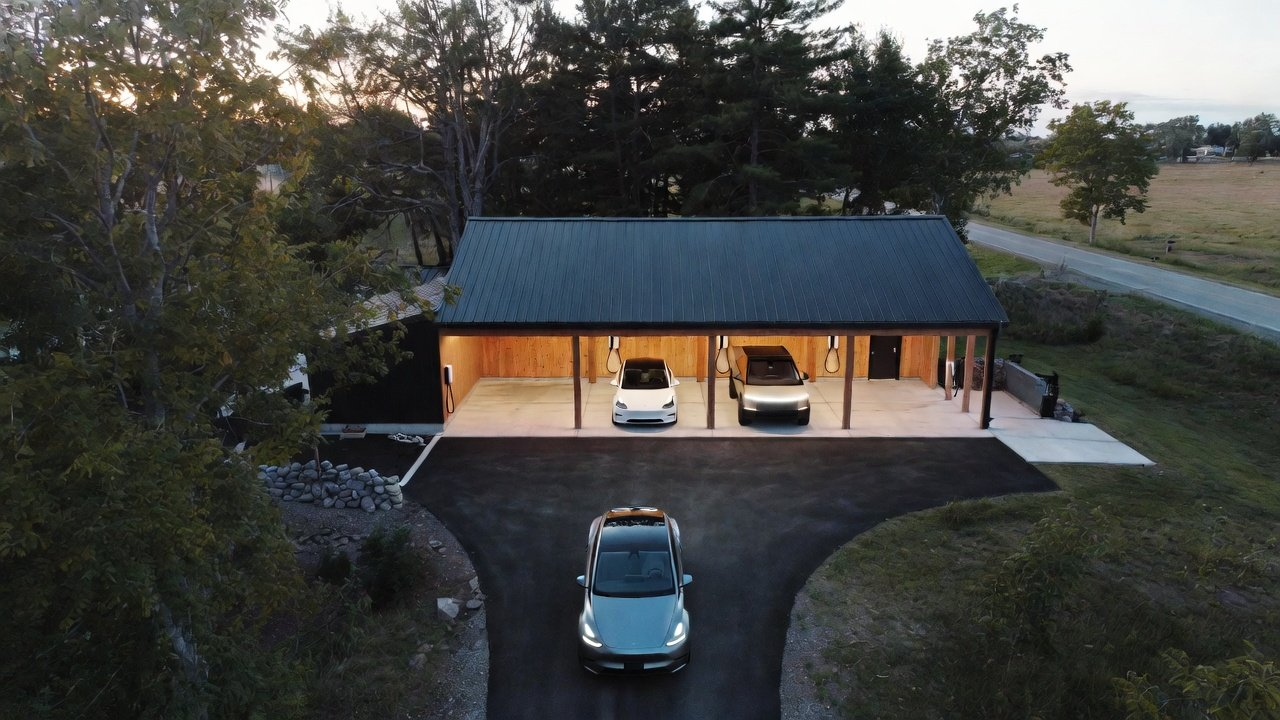
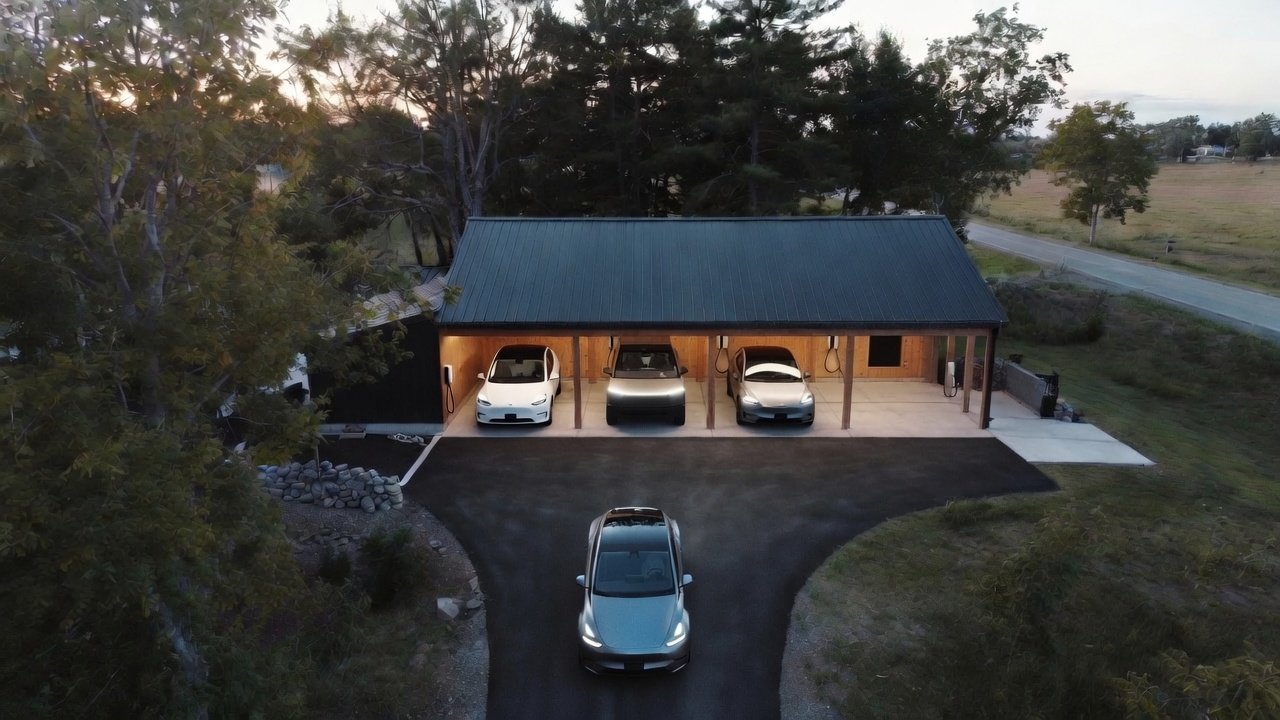
Add files via upload

diff --git a/sfv3.html b/sfv3.html
@@ -134,6 +134,8 @@ audio{width:100%}
   <button class="tab-btn" data-tab="interiors">Interior Rooms</button>
   <button class="tab-btn" data-tab="wellness">Barn &amp; Wellness</button>
   <button class="tab-btn" data-tab="pool">Pool &amp; Outdoor</button>
+  <button class="tab-btn" data-tab="pergola">Al Fresco Pergola</button>
+  <button class="tab-btn" data-tab="garden">Kitchen Garden</button>
   <button class="tab-btn" data-tab="robotaxi">Robotaxi Depot</button>
   <button class="tab-btn" data-tab="budget">Budget &amp; Materials</button>
   <button class="tab-btn" data-tab="about">About</button>
@@ -467,6 +469,14 @@ audio{width:100%}
         <rect x="180" y="462" width="108" height="44" rx="3" fill="#D4B896" fill-opacity="0.3" stroke="#B8963E" stroke-width="0.5" stroke-dasharray="3 2"/>
         <text x="234" y="480" text-anchor="middle" class="ss" fill="#B8963E">fire pit terrace</text>
         <text x="234" y="492" text-anchor="middle" class="ss" fill="#B8963E">+ hot tub</text>
+        <!-- Al Fresco Pergola — east of mudroom off kitchen garden -->
+        <rect x="618" y="340" width="100" height="80" rx="4" fill="#EAF3DE" stroke="#3B6D11" stroke-width="1" stroke-dasharray="5 3"/>
+        <text x="668" y="372" text-anchor="middle" class="sl" fill="#27500A">Pergola</text>
+        <text x="668" y="384" text-anchor="middle" class="ss" fill="#3B6D11">al fresco dining</text>
+        <text x="668" y="395" text-anchor="middle" class="ss" fill="#3B6D11">vine canopy · fans</text>
+        <!-- Path from mudroom to pergola -->
+        <path d="M613 370 Q600 365 580 362" fill="none" stroke="#3B6D11" stroke-width="1.5" stroke-dasharray="4 3" stroke-linecap="round"/>
+        <text x="594" y="357" text-anchor="middle" class="ss" fill="#3B6D11">kitchen path</text>
 
         <!-- Pool south of living wing east side -->
         <rect x="296" y="462" width="118" height="68" rx="4" fill="#B5D4F4" stroke="#185FA5" stroke-width="0.8"/>
@@ -609,6 +619,16 @@ audio{width:100%}
       <li>Starlink on barn roof — automatic failover if fiber down</li>
     </ul>
   </div>
+
+<div style="margin:0 0 0;padding:16px 32px 0">
+  <div style="border:0.5px solid rgba(184,150,62,0.25);border-radius:8px;overflow:hidden;max-width:600px">
+    <div style="display:flex;align-items:center;justify-content:space-between;padding:10px 14px;background:rgba(184,150,62,0.08);border-bottom:0.5px solid rgba(184,150,62,0.2)">
+      <span style="font-size:10px;letter-spacing:0.14em;text-transform:uppercase;color:var(--gold-light)">Barn &amp; Wellness — Est. Cost</span>
+      <span style="font-size:14px;font-weight:500;color:var(--gold-light)">~$610,000</span>
+    </div>
+    <table style="width:100%;border-collapse:collapse"><tr><td style="padding:5px 10px;font-size:11px;color:rgba(245,242,236,0.55);border-bottom:0.5px solid var(--border)">Structure &amp; shell renovation</td><td style="padding:5px 10px;font-size:11px;color:var(--gold-light);text-align:right;border-bottom:0.5px solid var(--border);white-space:nowrap">$320,000</td></tr><tr><td style="padding:5px 10px;font-size:11px;color:rgba(245,242,236,0.55);border-bottom:0.5px solid var(--border)">Gym · sauna · cold plunge · zen terrace</td><td style="padding:5px 10px;font-size:11px;color:var(--gold-light);text-align:right;border-bottom:0.5px solid var(--border);white-space:nowrap">$193,000</td></tr><tr><td style="padding:5px 10px;font-size:11px;color:rgba(245,242,236,0.55);border-bottom:0.5px solid var(--border)">Change room + shower</td><td style="padding:5px 10px;font-size:11px;color:var(--gold-light);text-align:right;border-bottom:0.5px solid var(--border);white-space:nowrap">$55,000</td></tr><tr><td style="padding:5px 10px;font-size:11px;color:rgba(245,242,236,0.55);border-bottom:0.5px solid var(--border)">Workshop &amp; equipment storage</td><td style="padding:5px 10px;font-size:11px;color:var(--gold-light);text-align:right;border-bottom:0.5px solid var(--border);white-space:nowrap">$42,000</td></tr></table>
+  </div>
+</div>
 </div>
 
 <!-- 10. POOL & OUTDOOR -->
@@ -644,6 +664,150 @@ audio{width:100%}
       <li><strong style="color:var(--gold-light)">Wildflower Meadow</strong> — beyond pool zone, native Ontario wildflowers, stone walls, hedgerows, open farmland</li>
     </ul>
   </div>
+</div>
+
+<!-- AL FRESCO PERGOLA -->
+<div class="panel" id="panel-pergola">
+<div class="carousel" id="carousel-pergola">
+<div class="car-stage">
+  <img src="https://donazz1.github.io/Sovereign-Feilds/pergola_exterior.png" alt="Al Fresco Pergola" onload="this.classList.add('loaded')">
+  <button class="car-arrow car-arrow-left" onclick="carMove('pergola',-1)">&#8249;</button>
+  <button class="car-arrow car-arrow-right" onclick="carMove('pergola',1)">&#8250;</button>
+  <div class="car-stage-caption"><h3>Al Fresco Dining Pergola</h3><p>Rustic harvest table · Bistro seating · Living vine canopy · Farmland views · Golden hour</p></div>
+</div>
+<div style="display:none">
+  <div class="car-slide active" data-title="Al Fresco Dining Pergola" data-sub="Rustic harvest table · Bistro seating · Living vine canopy · Farmland views"><img src="https://donazz1.github.io/Sovereign-Feilds/pergola_exterior.png"></div>
+  <div class="car-slide" data-title="Inside the Pergola" data-sub="Douglas fir and black steel · Infrared heaters · Ceiling fans · Pendant lighting · Open farmland horizon"><img src="https://donazz1.github.io/Sovereign-Feilds/pergola_interior.png"></div>
+</div>
+<div class="car-thumbs">
+  <div class="car-thumb active-thumb" onclick="carGo('pergola',0)"><img src="https://donazz1.github.io/Sovereign-Feilds/pergola_exterior.png" onload="this.classList.add('loaded')"><div class="car-thumb-lbl">Pergola · Bistro View</div></div>
+  <div class="car-thumb" onclick="carGo('pergola',1)"><img src="https://donazz1.github.io/Sovereign-Feilds/pergola_interior.png" onload="this.classList.add('loaded')"><div class="car-thumb-lbl">Interior · Long View</div></div>
+</div>
+</div>
+  <div class="spec-strip">
+    <div class="spec-item"><div class="spec-label">Structure</div><div class="spec-value gold">Douglas Fir + Black Steel</div></div>
+    <div class="spec-item"><div class="spec-label">Canopy</div><div class="spec-value">Living Vine Trellis</div></div>
+    <div class="spec-item"><div class="spec-label">Floor</div><div class="spec-value">Flagstone</div></div>
+    <div class="spec-item"><div class="spec-label">Heating</div><div class="spec-value">Infrared Ceiling Mount</div></div>
+    <div class="spec-item"><div class="spec-label">Location</div><div class="spec-value">Kitchen Garden · East of Mudroom</div></div>
+  </div>
+  <div class="content-block">
+    <h2>The Pergola</h2><div class="gold-rule"></div>
+    <p>A Douglas fir and black steel pergola with an open lattice trellis roof positioned just off the kitchen garden, east of the mudroom. Completely open on all four sides — the farmland view is visible from every seat. A short flagstone path through the herb garden connects it directly to the kitchen. In early spring the open trellis lets full sun through. By June the vines have filled in creating a dense natural living canopy. By October the leaves drop, opening it back up to sky.</p>
+    <ul class="rule-list" style="margin-top:20px">
+      <li><strong style="color:var(--gold-light)">Structure</strong> — Douglas fir timber posts and beams · black steel lattice trellis roof · no walls, completely open on all four sides · farmland view from every seat</li>
+      <li><strong style="color:var(--gold-light)">Living Canopy</strong> — hops or Virginia creeper trained through trellis · bare in spring (open sky dining) · full canopy June–September · brilliant red fall colour · dormant and open through winter</li>
+      <li><strong style="color:var(--gold-light)">Lighting</strong> — Lutron-controlled outdoor zone · warm pendant lights hanging from trellis beams · string lights woven through vines · dimmable scenes via Control4 (dinner mode, ambient mode)</li>
+      <li><strong style="color:var(--gold-light)">Ceiling Fans</strong> — 4× large black ceiling-mount fans on trellis beams · dual purpose: summer air circulation and evening insect deterrent · Control4 "insect mode" runs all fans at medium speed from app</li>
+      <li><strong style="color:var(--gold-light)">Infrared Heaters</strong> — 4–6× ceiling-mount infrared units bolted to trellis beams · heat occupants directly not the air, so wind doesn't steal warmth · extends season into October and from April · Control4 zone on/off from app</li>
+      <li><strong style="color:var(--gold-light)">Seating</strong> — one or two long harvest tables · estate dining format · not café-style small tables · seats 10–16 comfortably</li>
+      <li><strong style="color:var(--gold-light)">Floor</strong> — flagstone matching house and veranda · low fieldstone border walls optional on north and east sides for wind break without enclosing the space</li>
+      <li><strong style="color:var(--gold-light)">Kitchen Connection</strong> — flagstone path through herb garden to mudroom · 20–30 steps from kitchen to table · outdoor kitchen nearby</li>
+    </ul>
+  </div>
+  <div class="content-block" style="padding-top:0">
+    <h2>Smart Home Integration</h2><div class="gold-rule"></div>
+    <ul class="rule-list">
+      <li>Lutron outdoor lighting zone — pergola pendant and string lights · dimmable · scene-programmable</li>
+      <li>Control4 pergola zone — fans, infrared heaters, and lighting all on single zone · app controllable</li>
+      <li>"Dinner scene" — lights at 60%, heaters on, fans low · one tap from phone</li>
+      <li>"Insect mode" — all fans at medium speed · triggered from Control4 app or voice</li>
+      <li>"Evening wind-down" — lights at 20%, heaters on full, fans off</li>
+      <li>Irrigation drip lines extended from kitchen garden to vine planters at each pergola post</li>
+    </ul>
+  </div>
+
+<div style="margin:0 0 0;padding:16px 32px 32px">
+  <div style="border:0.5px solid rgba(184,150,62,0.25);border-radius:8px;overflow:hidden;max-width:600px">
+    <div style="display:flex;align-items:center;justify-content:space-between;padding:10px 14px;background:rgba(184,150,62,0.08);border-bottom:0.5px solid rgba(184,150,62,0.2)">
+      <span style="font-size:10px;letter-spacing:0.14em;text-transform:uppercase;color:var(--gold-light)">Al Fresco Pergola — Est. Cost</span>
+      <span style="font-size:14px;font-weight:500;color:var(--gold-light)">~$81,500</span>
+    </div>
+    <table style="width:100%;border-collapse:collapse"><tr><td style="padding:5px 10px;font-size:11px;color:rgba(245,242,236,0.55);border-bottom:0.5px solid var(--border)">Structure · Douglas fir timber · black steel lattice trellis</td><td style="padding:5px 10px;font-size:11px;color:var(--gold-light);text-align:right;border-bottom:0.5px solid var(--border);white-space:nowrap">$28,000</td></tr><tr><td style="padding:5px 10px;font-size:11px;color:rgba(245,242,236,0.55);border-bottom:0.5px solid var(--border)">Flagstone floor · low fieldstone border walls</td><td style="padding:5px 10px;font-size:11px;color:var(--gold-light);text-align:right;border-bottom:0.5px solid var(--border);white-space:nowrap">$18,000</td></tr><tr><td style="padding:5px 10px;font-size:11px;color:rgba(245,242,236,0.55);border-bottom:0.5px solid var(--border)">4× infrared ceiling heaters · Control4 zone</td><td style="padding:5px 10px;font-size:11px;color:var(--gold-light);text-align:right;border-bottom:0.5px solid var(--border);white-space:nowrap">$10,000</td></tr><tr><td style="padding:5px 10px;font-size:11px;color:rgba(245,242,236,0.55);border-bottom:0.5px solid var(--border)">4× black ceiling fans · Control4 controlled</td><td style="padding:5px 10px;font-size:11px;color:var(--gold-light);text-align:right;border-bottom:0.5px solid var(--border);white-space:nowrap">$6,500</td></tr><tr><td style="padding:5px 10px;font-size:11px;color:rgba(245,242,236,0.55);border-bottom:0.5px solid var(--border)">Lighting · Lutron pendants · string lights · dimmable</td><td style="padding:5px 10px;font-size:11px;color:var(--gold-light);text-align:right;border-bottom:0.5px solid var(--border);white-space:nowrap">$8,000</td></tr><tr><td style="padding:5px 10px;font-size:11px;color:rgba(245,242,236,0.55);border-bottom:0.5px solid var(--border)">Vines · rustic harvest table · bistro tables · bench seating</td><td style="padding:5px 10px;font-size:11px;color:var(--gold-light);text-align:right;border-bottom:0.5px solid var(--border);white-space:nowrap">$11,000</td></tr></table>
+  </div>
+</div>
+</div>
+
+<!-- KITCHEN GARDEN & GREENHOUSE -->
+<div class="panel" id="panel-garden">
+  <div class="hero tall">
+    <img src="https://donazz1.github.io/Sovereign-Feilds/kitchen_garden.png" alt="Kitchen garden and greenhouse" onload="this.classList.add('loaded')">
+    <div class="hero-caption"><div class="rule"></div><h2>Kitchen Garden &amp; Greenhouse</h2><p>Heated greenhouse · Waist-height raised beds · Small orchard · Stone path from house · Render coming</p></div>
+  </div>
+  <div class="spec-strip">
+    <div class="spec-item"><div class="spec-label">Greenhouse</div><div class="spec-value gold">16 × 24 ft · Heated</div></div>
+    <div class="spec-item"><div class="spec-label">Raised Beds</div><div class="spec-value">4–6 · Waist Height · Cedar</div></div>
+    <div class="spec-item"><div class="spec-label">Orchard</div><div class="spec-value">6–8 Fruit Trees</div></div>
+    <div class="spec-item"><div class="spec-label">Irrigation</div><div class="spec-value">Drip Lines · Smart Controller</div></div>
+    <div class="spec-item"><div class="spec-label">Location</div><div class="spec-value">East Side · ~150m from House</div></div>
+  </div>
+  <div class="content-block">
+    <h2>The Greenhouse</h2><div class="gold-rule"></div>
+    <p>A clean black aluminum frame greenhouse — 16×24 ft — anchoring the north end of the kitchen garden zone so it doesn't shade the growing beds. Double-glazed polycarbonate panels for better insulation than glass in Ontario winters. Heated with a small electric unit, plumbed with water, integrated with the property smart system. Big enough to grow seedlings in early spring, overwinter tender plants, and serve as a warm green sanctuary on a February day.</p>
+    <ul class="rule-list" style="margin-top:20px">
+      <li>16×24 ft · black aluminum frame · double-glazed polycarbonate panels · gable roof</li>
+      <li>Heated — electric unit with thermostat · integrated with Control4 for remote temperature monitoring</li>
+      <li>Plumbed — cold water line · drip irrigation inside · floor drain</li>
+      <li>Potting bench along one wall · cedar shelving for seedling trays · hanging baskets</li>
+      <li>Automatic roof vents for summer ventilation · screened door entry</li>
+      <li>Positioned at north end of garden zone so it never shades the raised beds</li>
+      <li>Simple and functional — not ornate. Clean lines matching property aesthetic</li>
+    </ul>
+  </div>
+  <div class="content-block" style="padding-top:0">
+    <h2>Kitchen Garden Zone</h2><div class="gold-rule"></div>
+    <p>A dedicated growing zone on the east side of the property, ~150 metres from the house — close enough to walk to with a basket, far enough to feel like its own destination. Stone path leads from the house through the landscape directly to the zone. A small cedar tool shed sits at the entry.</p>
+    <ul class="rule-list" style="margin-top:20px">
+      <li><strong style="color:var(--gold-light)">Raised Beds</strong> — 4–6 cedar raised beds at waist height (~900mm) · no bending · tomatoes, herbs, greens, root vegetables, squash · drip irrigation to each bed</li>
+      <li><strong style="color:var(--gold-light)">Orchard</strong> — 6–8 established fruit trees in loose grid · apple, pear, plum, sour cherry · all well-suited to King Township climate · mown grass paths between trees · pollinates naturally</li>
+      <li><strong style="color:var(--gold-light)">Tool Shed</strong> — 8×10 ft · cedar board and batten matching property · stores tools, soil, seeds, fertilizers · potting area outside under small overhang</li>
+      <li><strong style="color:var(--gold-light)">Beehives</strong> — 2–3 hives at the orchard edge · pollinates all beds and orchard · produces property honey · screened from main paths</li>
+      <li><strong style="color:var(--gold-light)">Irrigation</strong> — drip lines to all raised beds · connected to Hunter Pro-HC smart controller · watering schedules set via Control4 app · rain sensor override</li>
+      <li><strong style="color:var(--gold-light)">Stone Path</strong> — flagstone path from house east wing through landscape to garden zone · lined with lavender and ornamental grasses · intentional destination walk</li>
+      <li><strong style="color:var(--gold-light)">Herb Garden</strong> — dedicated herb bed near tool shed · rosemary, thyme, sage, basil, mint, chives · close to greenhouse for easy access year-round</li>
+    </ul>
+  </div>
+  <div class="content-block" style="padding-top:0">
+    <h2>Seasonal Calendar</h2><div class="gold-rule"></div>
+    <ul class="rule-list">
+      <li><strong style="color:var(--gold-light)">February–March</strong> — greenhouse starts seedlings under grow lights · warm sanctuary to visit on cold days</li>
+      <li><strong style="color:var(--gold-light)">April–May</strong> — harden off seedlings · plant raised beds · fruit trees blossom · bees active</li>
+      <li><strong style="color:var(--gold-light)">June–August</strong> — full production · daily harvest · herbs at peak · orchard developing fruit</li>
+      <li><strong style="color:var(--gold-light)">September–October</strong> — apple and pear harvest · preserve and store · greenhouse extends season 4–6 weeks</li>
+      <li><strong style="color:var(--gold-light)">November–January</strong> — greenhouse overwinters tender herbs · planning and ordering seeds · beds mulched and resting</li>
+    </ul>
+    
+  </div>
+
+<div style="margin:0 0 0;padding:16px 32px 0">
+  <div style="border:0.5px solid rgba(184,150,62,0.25);border-radius:8px;overflow:hidden;max-width:600px">
+    <div style="display:flex;align-items:center;justify-content:space-between;padding:10px 14px;background:rgba(184,150,62,0.08);border-bottom:0.5px solid rgba(184,150,62,0.2)">
+      <span style="font-size:10px;letter-spacing:0.14em;text-transform:uppercase;color:var(--gold-light)">Pool &amp; Outdoor — Est. Cost</span>
+      <span style="font-size:14px;font-weight:500;color:var(--gold-light)">~$483,000</span>
+    </div>
+    <table style="width:100%;border-collapse:collapse"><tr><td style="padding:5px 10px;font-size:11px;color:rgba(245,242,236,0.55);border-bottom:0.5px solid var(--border)">Inground pool ~20×30 ft · saltwater · auto cover · LED</td><td style="padding:5px 10px;font-size:11px;color:var(--gold-light);text-align:right;border-bottom:0.5px solid var(--border);white-space:nowrap">$185,000</td></tr><tr><td style="padding:5px 10px;font-size:11px;color:rgba(245,242,236,0.55);border-bottom:0.5px solid var(--border)">Hot tub · 6-person · near fire pit</td><td style="padding:5px 10px;font-size:11px;color:var(--gold-light);text-align:right;border-bottom:0.5px solid var(--border);white-space:nowrap">$22,000</td></tr><tr><td style="padding:5px 10px;font-size:11px;color:rgba(245,242,236,0.55);border-bottom:0.5px solid var(--border)">Pool deck · flagstone throughout</td><td style="padding:5px 10px;font-size:11px;color:var(--gold-light);text-align:right;border-bottom:0.5px solid var(--border);white-space:nowrap">$48,000</td></tr><tr><td style="padding:5px 10px;font-size:11px;color:rgba(245,242,236,0.55);border-bottom:0.5px solid var(--border)">Pool house · change room · Murphy bed · bathroom</td><td style="padding:5px 10px;font-size:11px;color:var(--gold-light);text-align:right;border-bottom:0.5px solid var(--border);white-space:nowrap">$110,000</td></tr><tr><td style="padding:5px 10px;font-size:11px;color:rgba(245,242,236,0.55);border-bottom:0.5px solid var(--border)">Covered veranda · cedar ceiling · Douglas fir posts</td><td style="padding:5px 10px;font-size:11px;color:var(--gold-light);text-align:right;border-bottom:0.5px solid var(--border);white-space:nowrap">$55,000</td></tr><tr><td style="padding:5px 10px;font-size:11px;color:rgba(245,242,236,0.55);border-bottom:0.5px solid var(--border)">Fire pit terrace · gas fire · flagstone · hot tub</td><td style="padding:5px 10px;font-size:11px;color:var(--gold-light);text-align:right;border-bottom:0.5px solid var(--border);white-space:nowrap">$28,000</td></tr><tr><td style="padding:5px 10px;font-size:11px;color:rgba(245,242,236,0.55);border-bottom:0.5px solid var(--border)">Outdoor kitchen · built-in grill · granite counter</td><td style="padding:5px 10px;font-size:11px;color:var(--gold-light);text-align:right;border-bottom:0.5px solid var(--border);white-space:nowrap">$35,000</td></tr></table>
+  </div>
+</div>
+
+<div style="margin:0 0 0;padding:16px 32px 0">
+  <div style="border:0.5px solid rgba(184,150,62,0.25);border-radius:8px;overflow:hidden;max-width:600px">
+    <div style="display:flex;align-items:center;justify-content:space-between;padding:10px 14px;background:rgba(184,150,62,0.08);border-bottom:0.5px solid rgba(184,150,62,0.2)">
+      <span style="font-size:10px;letter-spacing:0.14em;text-transform:uppercase;color:var(--gold-light)">Al Fresco Pergola — Est. Cost</span>
+      <span style="font-size:14px;font-weight:500;color:var(--gold-light)">~$81,500</span>
+    </div>
+    <table style="width:100%;border-collapse:collapse"><tr><td style="padding:5px 10px;font-size:11px;color:rgba(245,242,236,0.55);border-bottom:0.5px solid var(--border)">Structure · Douglas fir timber · black steel lattice</td><td style="padding:5px 10px;font-size:11px;color:var(--gold-light);text-align:right;border-bottom:0.5px solid var(--border);white-space:nowrap">$28,000</td></tr><tr><td style="padding:5px 10px;font-size:11px;color:rgba(245,242,236,0.55);border-bottom:0.5px solid var(--border)">Flagstone floor · fieldstone border walls</td><td style="padding:5px 10px;font-size:11px;color:var(--gold-light);text-align:right;border-bottom:0.5px solid var(--border);white-space:nowrap">$18,000</td></tr><tr><td style="padding:5px 10px;font-size:11px;color:rgba(245,242,236,0.55);border-bottom:0.5px solid var(--border)">4× infrared ceiling heaters · Control4 zone</td><td style="padding:5px 10px;font-size:11px;color:var(--gold-light);text-align:right;border-bottom:0.5px solid var(--border);white-space:nowrap">$10,000</td></tr><tr><td style="padding:5px 10px;font-size:11px;color:rgba(245,242,236,0.55);border-bottom:0.5px solid var(--border)">4× black ceiling fans · Control4 controlled</td><td style="padding:5px 10px;font-size:11px;color:var(--gold-light);text-align:right;border-bottom:0.5px solid var(--border);white-space:nowrap">$6,500</td></tr><tr><td style="padding:5px 10px;font-size:11px;color:rgba(245,242,236,0.55);border-bottom:0.5px solid var(--border)">Lighting · Lutron pendants · string lights · dimmable</td><td style="padding:5px 10px;font-size:11px;color:var(--gold-light);text-align:right;border-bottom:0.5px solid var(--border);white-space:nowrap">$8,000</td></tr><tr><td style="padding:5px 10px;font-size:11px;color:rgba(245,242,236,0.55);border-bottom:0.5px solid var(--border)">Vines · harvest table · bistro tables · bench seating</td><td style="padding:5px 10px;font-size:11px;color:var(--gold-light);text-align:right;border-bottom:0.5px solid var(--border);white-space:nowrap">$11,000</td></tr></table>
+  </div>
+</div>
+
+<div style="margin:0 0 0;padding:16px 32px 0">
+  <div style="border:0.5px solid rgba(184,150,62,0.25);border-radius:8px;overflow:hidden;max-width:600px">
+    <div style="display:flex;align-items:center;justify-content:space-between;padding:10px 14px;background:rgba(184,150,62,0.08);border-bottom:0.5px solid rgba(184,150,62,0.2)">
+      <span style="font-size:10px;letter-spacing:0.14em;text-transform:uppercase;color:var(--gold-light)">Kitchen Garden &amp; Greenhouse — Est. Cost</span>
+      <span style="font-size:14px;font-weight:500;color:var(--gold-light)">~$86,000</span>
+    </div>
+    <table style="width:100%;border-collapse:collapse"><tr><td style="padding:5px 10px;font-size:11px;color:rgba(245,242,236,0.55);border-bottom:0.5px solid var(--border)">Greenhouse · 16×24 ft · black aluminum · polycarbonate · heated</td><td style="padding:5px 10px;font-size:11px;color:var(--gold-light);text-align:right;border-bottom:0.5px solid var(--border);white-space:nowrap">$38,000</td></tr><tr><td style="padding:5px 10px;font-size:11px;color:rgba(245,242,236,0.55);border-bottom:0.5px solid var(--border)">4–6 cedar raised beds · waist height · drip irrigation</td><td style="padding:5px 10px;font-size:11px;color:var(--gold-light);text-align:right;border-bottom:0.5px solid var(--border);white-space:nowrap">$18,000</td></tr><tr><td style="padding:5px 10px;font-size:11px;color:rgba(245,242,236,0.55);border-bottom:0.5px solid var(--border)">Orchard · 6–8 fruit trees · established</td><td style="padding:5px 10px;font-size:11px;color:var(--gold-light);text-align:right;border-bottom:0.5px solid var(--border);white-space:nowrap">$14,000</td></tr><tr><td style="padding:5px 10px;font-size:11px;color:rgba(245,242,236,0.55);border-bottom:0.5px solid var(--border)">Cedar tool shed · 8×10 ft · board &amp; batten</td><td style="padding:5px 10px;font-size:11px;color:var(--gold-light);text-align:right;border-bottom:0.5px solid var(--border);white-space:nowrap">$8,000</td></tr><tr><td style="padding:5px 10px;font-size:11px;color:rgba(245,242,236,0.55);border-bottom:0.5px solid var(--border)">Beehives · 2–3 hives · installation</td><td style="padding:5px 10px;font-size:11px;color:var(--gold-light);text-align:right;border-bottom:0.5px solid var(--border);white-space:nowrap">$4,000</td></tr><tr><td style="padding:5px 10px;font-size:11px;color:rgba(245,242,236,0.55);border-bottom:0.5px solid var(--border)">Stone path · herb garden · lavender borders</td><td style="padding:5px 10px;font-size:11px;color:var(--gold-light);text-align:right;border-bottom:0.5px solid var(--border);white-space:nowrap">$4,000</td></tr></table>
+  </div>
+</div>
 </div>
 
 <!-- 11. ROBOTAXI DEPOT -->
@@ -682,6 +846,16 @@ audio{width:100%}
     </ul>
     <p style="margin-top:16px;font-size:12px;color:rgba(245,242,236,0.3)">Render: Quicksilver Model Y Performance approaching · Pearl White Model 3 pulling in · Cybertruck parked and charging · Golden hour · King Township Ontario</p>
   </div>
+
+<div style="margin:0 0 0;padding:16px 32px 0">
+  <div style="border:0.5px solid rgba(184,150,62,0.25);border-radius:8px;overflow:hidden;max-width:600px">
+    <div style="display:flex;align-items:center;justify-content:space-between;padding:10px 14px;background:rgba(184,150,62,0.08);border-bottom:0.5px solid rgba(184,150,62,0.2)">
+      <span style="font-size:10px;letter-spacing:0.14em;text-transform:uppercase;color:var(--gold-light)">Robotaxi Depot — Est. Cost</span>
+      <span style="font-size:14px;font-weight:500;color:var(--gold-light)">~$48,000</span>
+    </div>
+    <table style="width:100%;border-collapse:collapse"><tr><td style="padding:5px 10px;font-size:11px;color:rgba(245,242,236,0.55);border-bottom:0.5px solid var(--border)">Carport structure · matte black roof · cedar ceiling · posts</td><td style="padding:5px 10px;font-size:11px;color:var(--gold-light);text-align:right;border-bottom:0.5px solid var(--border);white-space:nowrap">$22,000</td></tr><tr><td style="padding:5px 10px;font-size:11px;color:rgba(245,242,236,0.55);border-bottom:0.5px solid var(--border)">2× Tesla Universal Wall Connector · Level 2</td><td style="padding:5px 10px;font-size:11px;color:var(--gold-light);text-align:right;border-bottom:0.5px solid var(--border);white-space:nowrap">$6,000</td></tr><tr><td style="padding:5px 10px;font-size:11px;color:rgba(245,242,236,0.55);border-bottom:0.5px solid var(--border)">DC fast charger conduit pre-run</td><td style="padding:5px 10px;font-size:11px;color:var(--gold-light);text-align:right;border-bottom:0.5px solid var(--border);white-space:nowrap">$2,000</td></tr><tr><td style="padding:5px 10px;font-size:11px;color:rgba(245,242,236,0.55);border-bottom:0.5px solid var(--border)">Automated gate · intercom · keypad</td><td style="padding:5px 10px;font-size:11px;color:var(--gold-light);text-align:right;border-bottom:0.5px solid var(--border);white-space:nowrap">$8,000</td></tr><tr><td style="padding:5px 10px;font-size:11px;color:rgba(245,242,236,0.55);border-bottom:0.5px solid var(--border)">Asphalt access lane · fieldstone wall · cedar screening</td><td style="padding:5px 10px;font-size:11px;color:var(--gold-light);text-align:right;border-bottom:0.5px solid var(--border);white-space:nowrap">$10,000</td></tr></table>
+  </div>
+</div>
 </div>
 
 <!-- 12. BUDGET & MATERIALS -->
@@ -693,12 +867,12 @@ audio{width:100%}
 </div>
 <div style="display:grid;grid-template-columns:repeat(auto-fit,minmax(130px,1fr));gap:8px;padding:16px 32px">
   <div style="background:rgba(255,255,255,0.04);border:0.5px solid var(--border);border-radius:8px;padding:12px 14px"><div style="font-size:9px;letter-spacing:0.14em;text-transform:uppercase;color:var(--charcoal-light);margin-bottom:4px">House Build</div><div style="font-size:17px;font-weight:500;color:var(--gold-light)">~$3.35M</div></div>
-  <div style="background:rgba(255,255,255,0.04);border:0.5px solid var(--border);border-radius:8px;padding:12px 14px"><div style="font-size:9px;letter-spacing:0.14em;text-transform:uppercase;color:var(--charcoal-light);margin-bottom:4px">Smart Home</div><div style="font-size:17px;font-weight:500;color:var(--gold-light)">~$205K</div></div>
+  <div style="background:rgba(255,255,255,0.04);border:0.5px solid var(--border);border-radius:8px;padding:12px 14px"><div style="font-size:9px;letter-spacing:0.14em;text-transform:uppercase;color:var(--charcoal-light);margin-bottom:4px">Smart Home</div><div style="font-size:17px;font-weight:500;color:var(--gold-light)">~$226K</div></div>
   <div style="background:rgba(255,255,255,0.04);border:0.5px solid var(--border);border-radius:8px;padding:12px 14px"><div style="font-size:9px;letter-spacing:0.14em;text-transform:uppercase;color:var(--charcoal-light);margin-bottom:4px">Energy</div><div style="font-size:17px;font-weight:500;color:var(--gold-light)">~$475K</div></div>
   <div style="background:rgba(255,255,255,0.04);border:0.5px solid var(--border);border-radius:8px;padding:12px 14px"><div style="font-size:9px;letter-spacing:0.14em;text-transform:uppercase;color:var(--charcoal-light);margin-bottom:4px">Pool &amp; Outdoor</div><div style="font-size:17px;font-weight:500;color:var(--gold-light)">~$493K</div></div>
   <div style="background:rgba(255,255,255,0.04);border:0.5px solid var(--border);border-radius:8px;padding:12px 14px"><div style="font-size:9px;letter-spacing:0.14em;text-transform:uppercase;color:var(--charcoal-light);margin-bottom:4px">Barn</div><div style="font-size:17px;font-weight:500;color:var(--gold-light)">~$610K</div></div>
-  <div style="background:rgba(255,255,255,0.04);border:0.5px solid var(--border);border-radius:8px;padding:12px 14px"><div style="font-size:9px;letter-spacing:0.14em;text-transform:uppercase;color:var(--charcoal-light);margin-bottom:4px">Landscaping</div><div style="font-size:17px;font-weight:500;color:var(--gold-light)">~$366K</div></div>
-  <div style="background:rgba(184,150,62,0.12);border:0.5px solid rgba(184,150,62,0.35);border-radius:8px;padding:12px 14px"><div style="font-size:9px;letter-spacing:0.14em;text-transform:uppercase;color:var(--gold);margin-bottom:4px">Est. Total</div><div style="font-size:17px;font-weight:500;color:var(--gold-light)">~$5.5M</div></div>
+  <div style="background:rgba(255,255,255,0.04);border:0.5px solid var(--border);border-radius:8px;padding:12px 14px"><div style="font-size:9px;letter-spacing:0.14em;text-transform:uppercase;color:var(--charcoal-light);margin-bottom:4px">Landscaping</div><div style="font-size:17px;font-weight:500;color:var(--gold-light)">~$506K</div></div>
+  <div style="background:rgba(184,150,62,0.12);border:0.5px solid rgba(184,150,62,0.35);border-radius:8px;padding:12px 14px"><div style="font-size:9px;letter-spacing:0.14em;text-transform:uppercase;color:var(--gold);margin-bottom:4px">Est. Total</div><div style="font-size:17px;font-weight:500;color:var(--gold-light)">~$5.64M</div></div>
 </div>
 
 <!-- HOUSE CONSTRUCTION -->
@@ -741,7 +915,7 @@ audio{width:100%}
 
 <!-- SMART HOME -->
 <div class="bms">
-  <div class="bmh" onclick="bmToggle('smart')"><span class="bmt">Smart Home &amp; Automation</span><div style="display:flex;align-items:center;gap:14px"><span class="bmc">~$204,500</span><span id="bmchev-smart" style="color:var(--charcoal-light);font-size:18px">▾</span></div></div>
+  <div class="bmh" onclick="bmToggle('smart')"><span class="bmt">Smart Home &amp; Automation</span><div style="display:flex;align-items:center;gap:14px"><span class="bmc">~$225,500</span><span id="bmchev-smart" style="color:var(--charcoal-light);font-size:18px">▾</span></div></div>
   <div class="bmb" id="bmbody-smart">
     <table class="bmtb"><thead><tr><th>Item</th><th>Specification &amp; Materials</th><th>Est. Cost</th></tr></thead><tbody>
       <tr><td>Central Platform</td><td>Control4 or Savant · 4× touchpads · programming &amp; commissioning · year 1 support<br><span class="bmtag">Control4</span><span class="bmtag">Savant</span></td><td>$35,000</td></tr>
@@ -753,7 +927,7 @@ audio{width:100%}
       <tr><td>Pool &amp; Irrigation</td><td>Pool automation controller · saltwater system · auto cover motor · 8-zone irrigation<br><span class="bmtag">Pentair IntelliCenter</span><span class="bmtag">Hunter Pro-HC</span></td><td>$16,000</td></tr>
       <tr><td>Networking</td><td>Fiber primary · Starlink auto-failover · Ubiquiti UniFi full property mesh<br><span class="bmtag">Ubiquiti UniFi</span><span class="bmtag">Starlink</span></td><td>$12,000</td></tr>
       <tr><td>Leak Detection</td><td>Moen Flo whole-property · sensors at all supply points<br><span class="bmtag">Moen Flo Smart</span></td><td>$4,500</td></tr>
-      <tr class="bmtot"><td colspan="2">System Category Total</td><td>~$177,500</td></tr>
+      <tr class="bmtot"><td colspan="2">System Category Total</td><td>~$198,000</td></tr>
     </tbody></table>
     <div style="font-size:10px;letter-spacing:0.18em;text-transform:uppercase;color:var(--gold-light);margin:24px 14px 12px">Room-by-Room Breakdown</div>
     <table class="bmtb" style="min-width:600px"><thead><tr><th>Room / Area</th><th>Components</th><th>Est. Cost</th></tr></thead><tbody>
@@ -773,7 +947,9 @@ audio{width:100%}
       <tr><td>Barn — Wellness</td><td>Lutron lighting · 4× in-ceiling speakers · sauna temp control · cold plunge chiller · security camera · motion sensors</td><td style="text-align:right;color:var(--gold-light)">$12,000</td></tr>
       <tr><td>Barn — Utility</td><td>Smart powered garage door · security camera · motion sensor · Lutron lighting</td><td style="text-align:right;color:var(--gold-light)">$4,500</td></tr>
       <tr><td>Driveway &amp; Property</td><td>Electronic entry gate · video intercom · secondary road gate · 4× property cameras · landscape lighting zones · irrigation controller · invisible fence</td><td style="text-align:right;color:var(--gold-light)">$28,000</td></tr>
-      <tr class="bmtot"><td colspan="2">Room-by-Room Total</td><td>~$204,500</td></tr>
+      <tr><td>Al Fresco Pergola</td><td>4× ceiling-mount infrared heaters on trellis beams · 4× large black ceiling fans · Control4 pergola zone (dinner scene, insect mode, wind-down) · Lutron pendant and string light zone</td><td style="text-align:right;color:var(--gold-light)">$16,500</td></tr>
+      <tr><td>Kitchen Garden &amp; Greenhouse</td><td>Greenhouse electric heat thermostat · Control4 temperature monitoring · drip irrigation smart controller extension · automated vent openers</td><td style="text-align:right;color:var(--gold-light)">$4,500</td></tr>
+      <tr class="bmtot"><td colspan="2">Room-by-Room Total</td><td>~$225,500</td></tr>
     </tbody></table>
   </div>
 </div>
@@ -833,25 +1009,27 @@ audio{width:100%}
 
 <!-- LANDSCAPING -->
 <div class="bms" style="margin-bottom:0">
-  <div class="bmh" onclick="bmToggle('landscape')"><span class="bmt">Landscaping &amp; Hardscaping</span><div style="display:flex;align-items:center;gap:14px"><span class="bmc">~$366,000</span><span id="bmchev-landscape" style="color:var(--charcoal-light);font-size:18px">▾</span></div></div>
+  <div class="bmh" onclick="bmToggle('landscape')"><span class="bmt">Landscaping &amp; Hardscaping</span><div style="display:flex;align-items:center;gap:14px"><span class="bmc">~$505,500</span><span id="bmchev-landscape" style="color:var(--charcoal-light);font-size:18px">▾</span></div></div>
   <div class="bmb" id="bmbody-landscape">
     <table class="bmtb"><thead><tr><th>Item</th><th>Specification &amp; Materials</th><th>Est. Cost</th></tr></thead><tbody>
       <tr><td>Driveway</td><td>Full paved driveway · mature maple trees both sides · lighted natural fieldstone entry pillars · low fieldstone walls full length<br><span class="bmtag">Asphalt paving</span><span class="bmtag">Natural fieldstone</span><span class="bmtag">Mature sugar maples</span></td><td>$125,000</td></tr>
       <tr><td>Entry Court</td><td>Granite fountain · perennial garden beds · limestone flagstone paving · hydronic heated · lighted stone pillars<br><span class="bmtag">Granite fountain</span><span class="bmtag">Limestone flagstone</span><span class="bmtag">Uponor hydronic</span></td><td>$45,000</td></tr>
       <tr><td>Bedroom Courtyards</td><td>5 private garden courtyards · each uniquely planted (lavender, herbs, meadow grass, stone) · limestone paving · timber benches<br><span class="bmtag">Lavender · ornamental grasses</span><span class="bmtag">Limestone paving</span><span class="bmtag">Cedar timber benches</span></td><td>$65,000</td></tr>
-      <tr><td>Orchard &amp; Food Garden</td><td>Apple, pear, cherry trees · raised cedar vegetable beds · kitchen herb garden near mudroom · stone pathways<br><span class="bmtag">Fruit trees (established)</span><span class="bmtag">Cedar raised beds</span></td><td>$28,000</td></tr>
+      <tr><td>Orchard &amp; Kitchen Garden Zone</td><td>6–8 established fruit trees (apple, pear, plum, sour cherry) · 4–6 waist-height cedar raised beds · herb garden · 2–3 beehives at orchard edge · cedar tool shed 8×10 ft · stone path from house · drip irrigation to all beds<br><span class="bmtag">Established fruit trees</span><span class="bmtag">Cedar raised beds</span><span class="bmtag">Beehives</span><span class="bmtag">Cedar tool shed</span></td><td>$48,000</td></tr>
+      <tr><td>Greenhouse</td><td>16×24 ft · black aluminum frame · double-glazed polycarbonate panels · electric heat with thermostat · plumbed cold water · drip irrigation inside · potting bench · automatic roof vents · Control4 temperature monitoring<br><span class="bmtag">Black aluminum frame</span><span class="bmtag">Polycarbonate panels</span><span class="bmtag">Electric heat</span><span class="bmtag">Control4 integration</span></td><td>$38,000</td></tr>
       <tr><td>Wildflower Meadow</td><td>Open field beyond pool · native Ontario wildflower seed mix · stone walls · hedgerows along property edges<br><span class="bmtag">Native wildflower mix</span><span class="bmtag">Fieldstone walls</span><span class="bmtag">Mixed hedgerow species</span></td><td>$18,000</td></tr>
       <tr><td>Irrigation System</td><td>Full property · 10+ zones · smart controller integrated with Control4 · drip irrigation at gardens<br><span class="bmtag">Hunter Pro-HC controller</span><span class="bmtag">Rainbird drip system</span></td><td>$35,000</td></tr>
       <tr><td>Landscape Lighting</td><td>Full property zone control via Control4 · path lights, uplights, driveway lights, pool perimeter · LED throughout<br><span class="bmtag">Kichler LED landscape</span><span class="bmtag">FX Luminaire</span><span class="bmtag">WAC Lighting</span></td><td>$42,000</td></tr>
       <tr><td>Invisible Fence</td><td>Full property perimeter · professional installation · 2 dog collars<br><span class="bmtag">Invisible Fence Brand</span></td><td>$8,000</td></tr>
-      <tr class="bmtot"><td colspan="2">Landscaping Total</td><td>~$366,000</td></tr>
+      <tr><td>Al Fresco Pergola</td><td>Douglas fir timber posts and beams · black steel lattice trellis roof · flagstone floor · 4× ceiling-mount infrared heaters · 4× black ceiling fans (Control4 controlled — see Smart Home) · Lutron pendant and string lights · hops vines at each post · low fieldstone border walls · rustic harvest table · bistro tables · bench seating<br><span class="bmtag">Douglas fir timber</span><span class="bmtag">Black steel lattice</span><span class="bmtag">Infrared heaters</span><span class="bmtag">Ceiling fans</span><span class="bmtag">Flagstone</span></td><td>$81,500</td></tr>
+      <tr class="bmtot"><td colspan="2">Landscaping Total</td><td>~$505,500</td></tr>
     </tbody></table>
   </div>
 </div>
 
 <div style="display:flex;align-items:center;justify-content:space-between;padding:14px 16px;background:rgba(184,150,62,0.08);border:0.5px solid rgba(184,150,62,0.3);border-radius:8px;margin:16px 32px 8px">
   <span style="font-size:11px;letter-spacing:0.12em;text-transform:uppercase;color:var(--charcoal-light)">Project Total — Features &amp; Systems (3,200 sq ft house)</span>
-  <span style="font-size:20px;font-weight:500;color:var(--gold-light)">~$5,493,500 CAD</span>
+  <span style="font-size:20px;font-weight:500;color:var(--gold-light)">~$5,627,000 CAD</span>
 </div>
 <p style="font-size:11px;color:rgba(245,242,236,0.2);letter-spacing:0.06em;padding:0 32px 32px">All figures preliminary CAD estimates · House based on ~$1,045/sq ft for 3,200 sq ft · 30 kW solar with Ontario net metering substantially offsets winter electricity including heated driveway · Powerwall system scalable to 10 units plug-and-play · Updated June 2026</p>
 </div>
@@ -880,7 +1058,7 @@ audio{width:100%}
 
 <script>
 const subCfg={
-  site:[],approach:[],courtyard:[],barnland:[],interiors:[],wellness:[],pool:[],robotaxi:[],budget:[],about:[],
+  site:[],approach:[],courtyard:[],barnland:[],interiors:[],wellness:[],pool:[],pergola:[],garden:[],robotaxi:[],budget:[],about:[],
   layout:[{id:'house-plan',label:'House Floor Plan'},{id:'barn-plan',label:'Barn Floor Plan'},{id:'site-plan',label:'Site Plan'}],
   elevations:[{id:'front',label:'Front (North)'},{id:'rear',label:'Rear (South · Farmland)'},{id:'left',label:'Driveway Approach'},{id:'right',label:'Garage Wing (East)'}],
   walkthrough:[{id:'wt-house',label:'Property & House'},{id:'wt-barn',label:'Barn & Wellness'}]